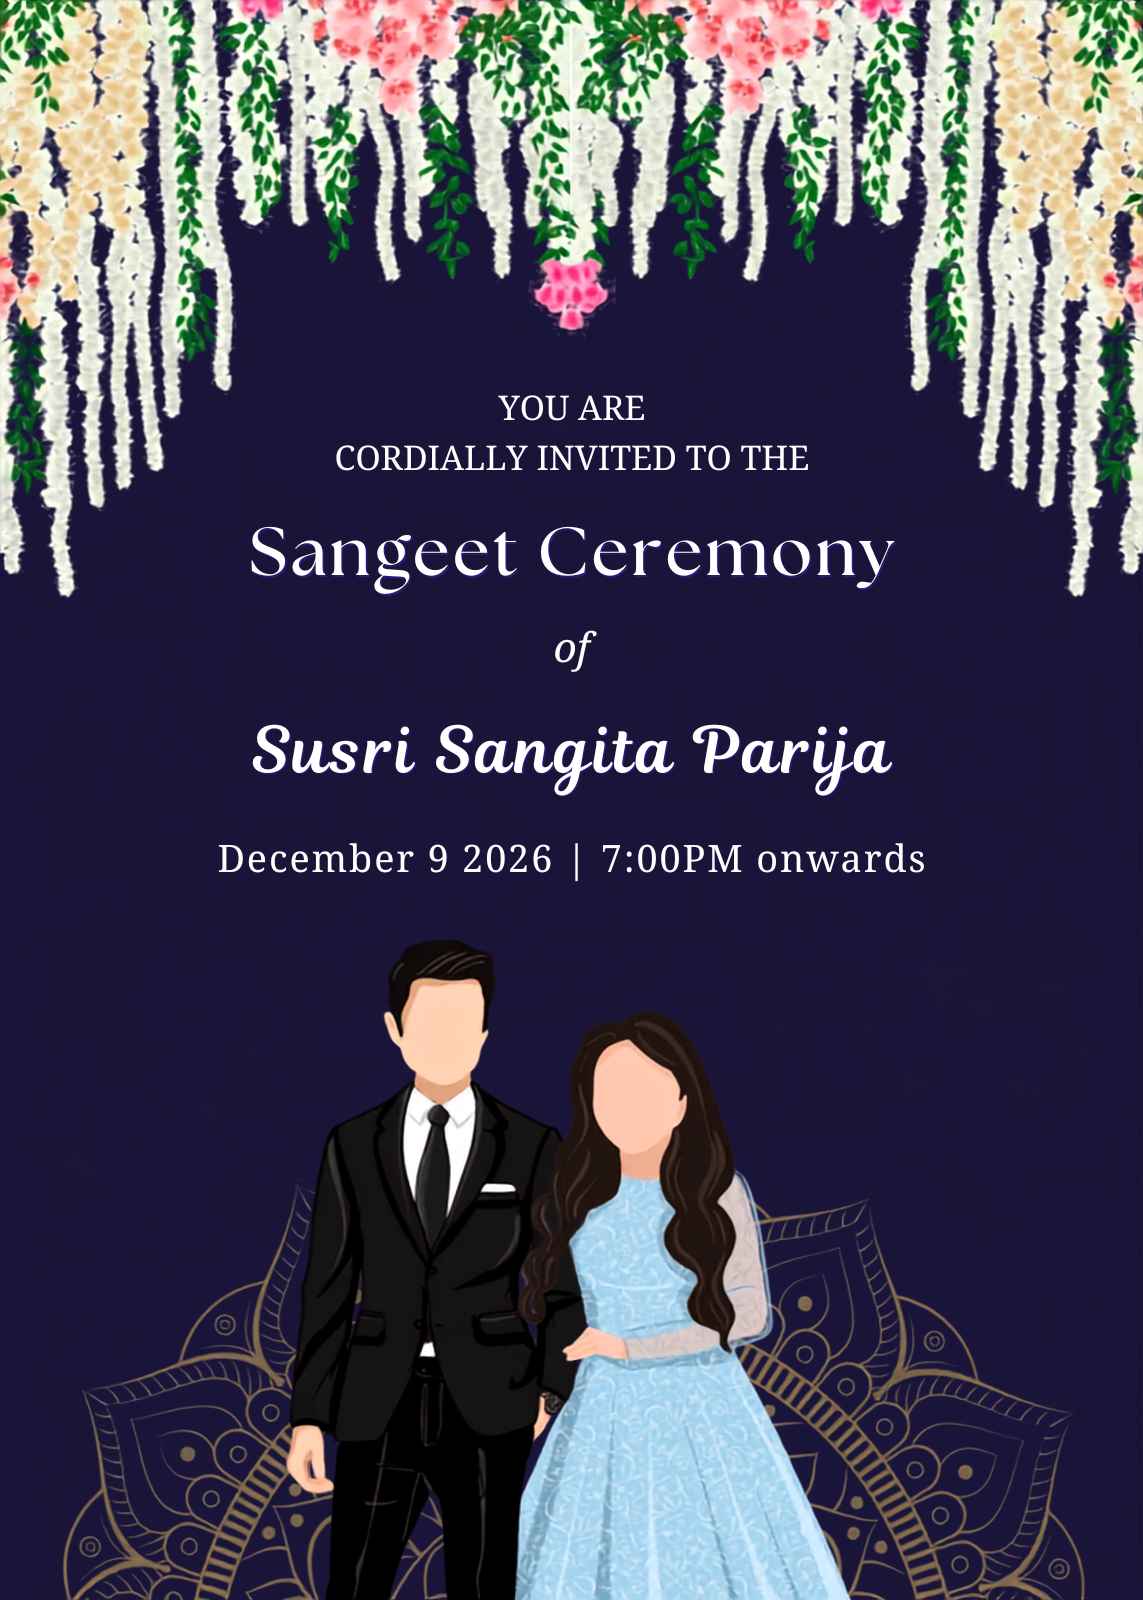
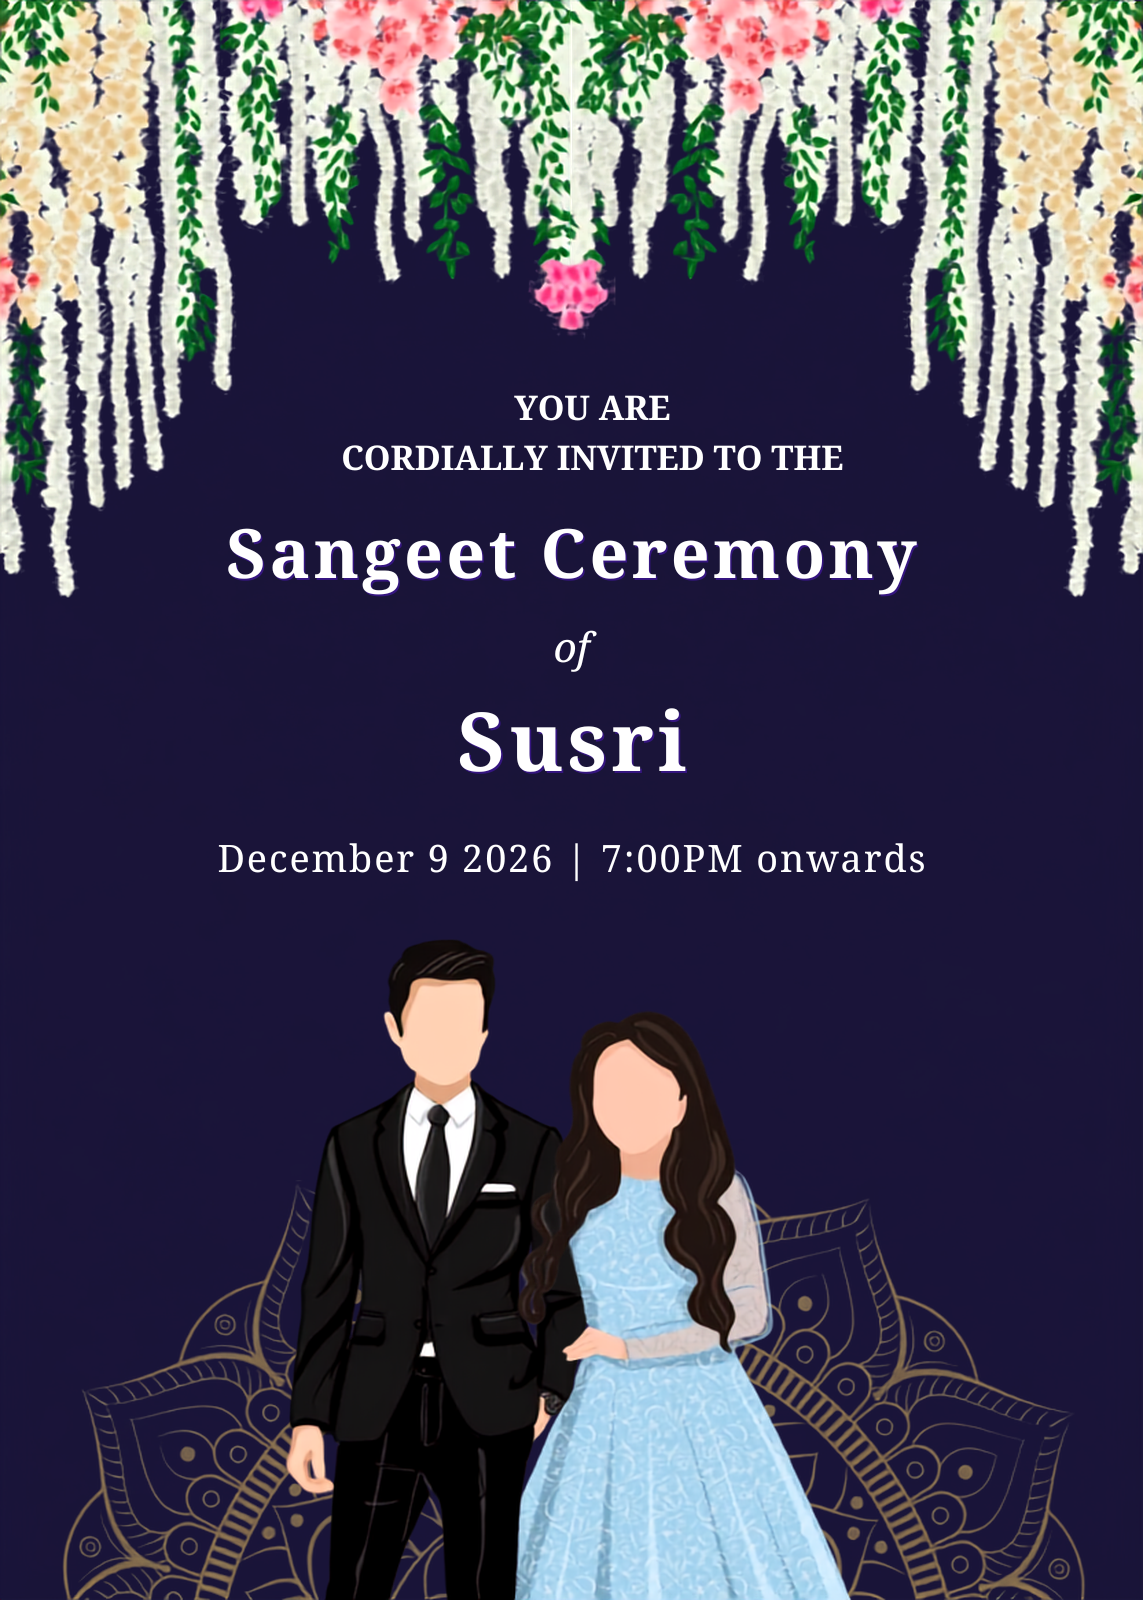
fix: sangeet card

Changed region(s): [[0.1837, 0.25, 0.7962, 0.375], [0.2143, 0.4375, 0.7962, 0.5]]

diff --git a/src/invites/registry.ts b/src/invites/registry.ts
@@ -19,6 +19,9 @@ export interface InviteShareMeta {
   description: string;
   /** Absolute path under /public for OG image */
   image: string;
+  /** Pixel size of `image`, sent as og:image width and height. */
+  imageWidth?: number;
+  imageHeight?: number;
   /**
    * Side-specific share links. When set, /invite/<slug>/<side> shows only that side's events.
    * `bride-wedding` is the bride's wedding card. The bare /invite/<slug> link still shows every event.
@@ -46,7 +49,9 @@ export const invites = {
     title: "You're invited to the wedding of Susri & Manoranjan!",
     description:
       "Join Susri Sangita Parija & Manoranjan Patnaik as they celebrate their wedding on Friday, 11 December 2026 at Casa Royal, Trisulia, Cuttack. View the invitation, event schedule, and venue details.",
-    image: "/themes/royal-wedding/intro/envelop-poster.jpg",
+    image: "/themes/royal-wedding/intro/envelop-share.jpg",
+    imageWidth: 1600,
+    imageHeight: 900,
     sides: {
       bride: {
         title: "You're invited — Susri & Manoranjan",

diff --git a/src/app/invite/[slug]/invite-screen.tsx b/src/app/invite/[slug]/invite-screen.tsx
@@ -60,8 +60,8 @@ export function inviteMetadata(slug: string, side?: string): Metadata {
       images: [
         {
           url: imageUrl,
-          width: 720,
-          height: 1280,
+          width: invite.imageWidth ?? 720,
+          height: invite.imageHeight ?? 1280,
           alt: title,
         },
       ],
